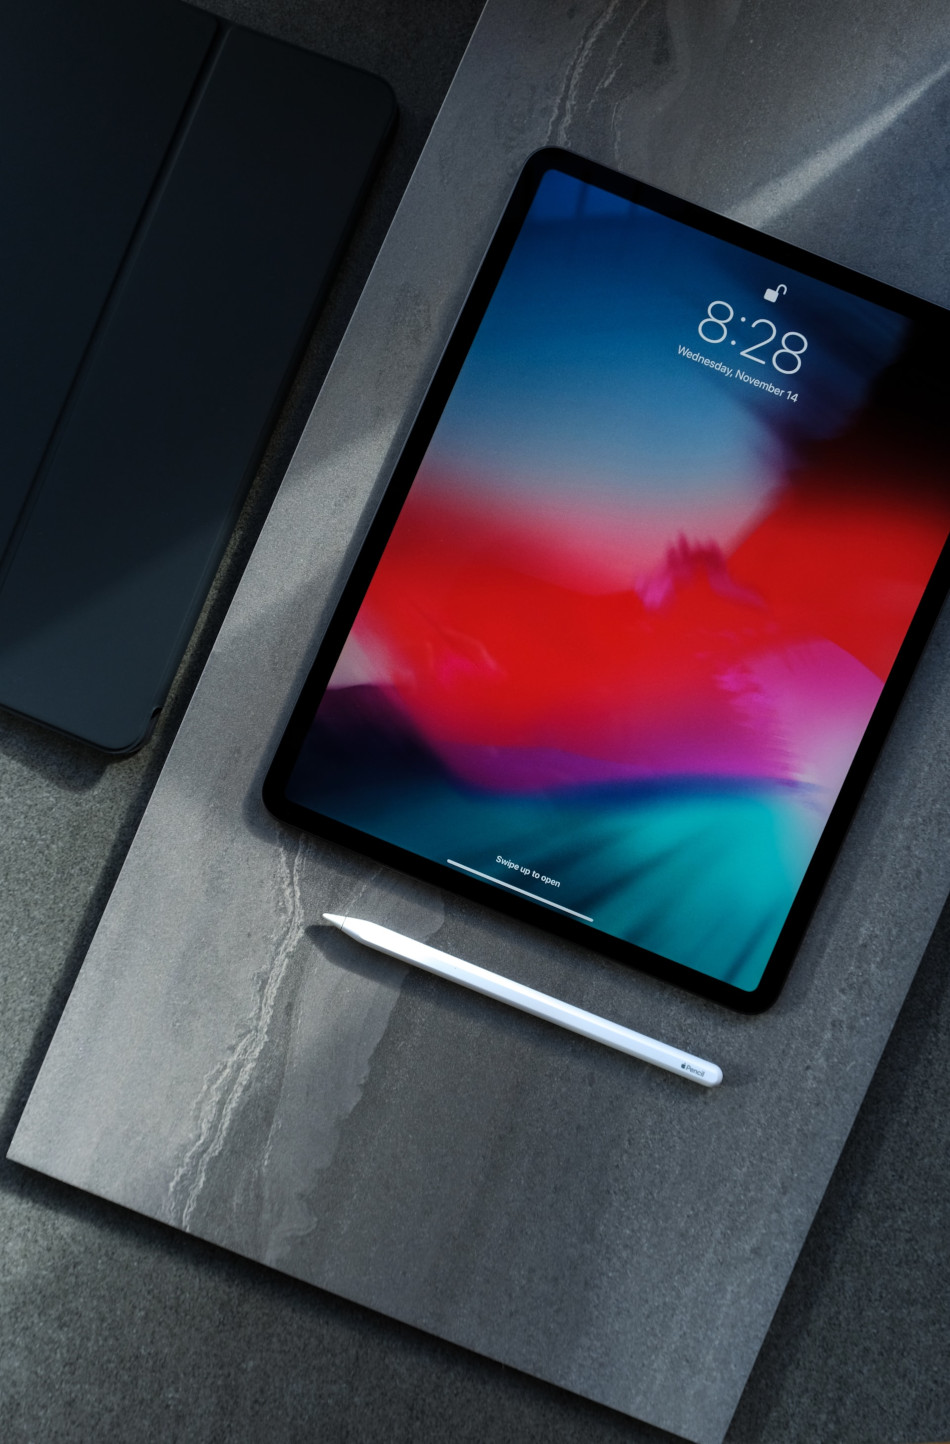
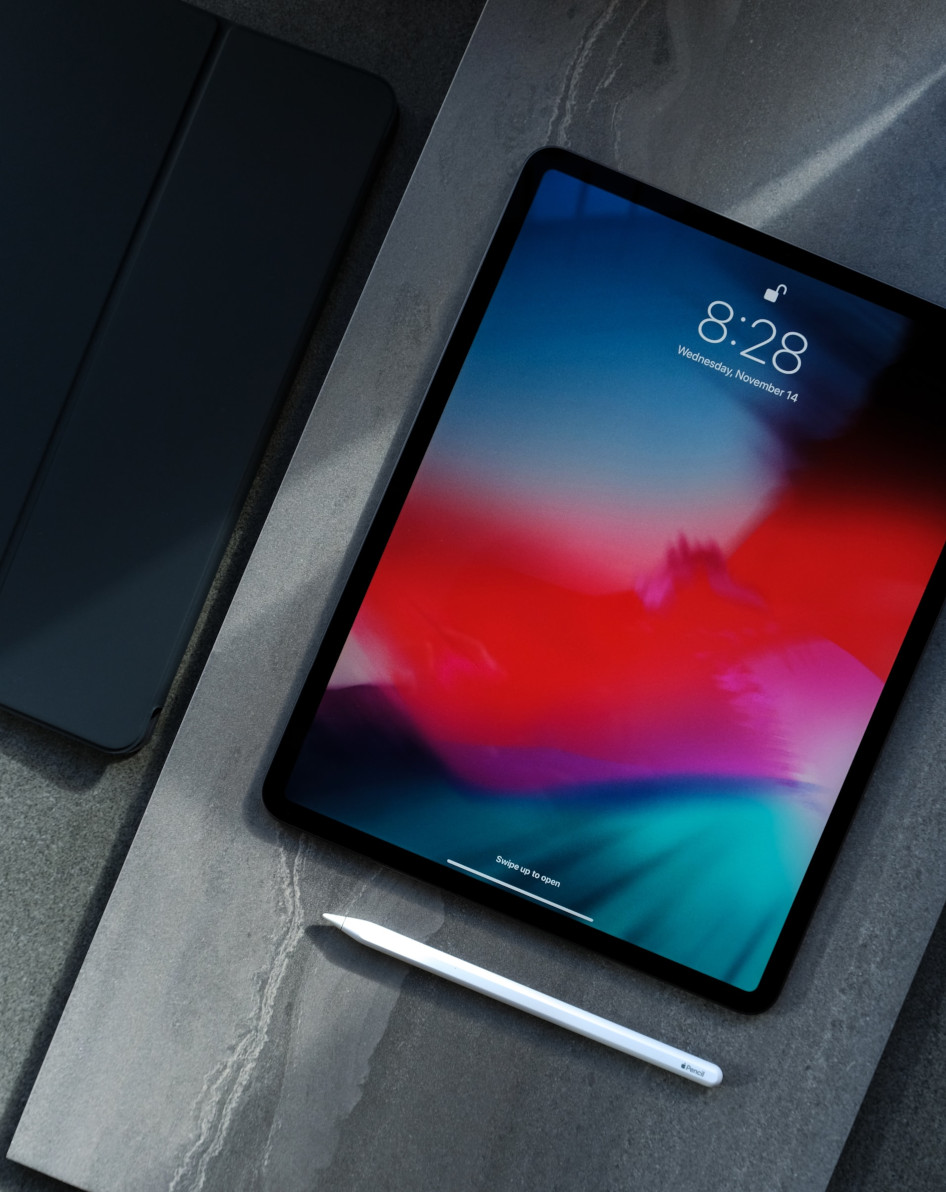
Testing bg-img and hover

diff --git a/css/style.css b/css/style.css
@@ -94,10 +94,20 @@ div#menu-container>nav>a {
     cursor: pointer;
 }
 
-div#menu-container>nav>a:hover {
-    background-color: var(--cor5);
-    color: var(--cor4);
-    border: 1px solid var(--cor2);
+@media (hover: hover) {
+    div#menu-container>nav>a:hover {
+        background-color: var(--cor5);
+        color: var(--cor4);
+        border: 1px solid var(--cor2);
+    }
+}
+
+@media (hover: none) {
+    div#menu-container>nav>a:active {
+        background-color: var(--cor5);
+        color: var(--cor4);
+        border: 1px solid var(--cor2);
+    }
 }
 
 /*
@@ -189,14 +199,28 @@ div.flex-items>a {
     box-shadow: 2px 2px 5px rgba(0, 0, 0, 0.623);
 }
 
-div.flex-items>a:hover {
-    background-color: var(--cor5);
-    color: var(--cor4);
-    text-shadow: 0px 0px 10px rgba(255, 255, 255, 0.5);
-    transform: translate(0px, -5px);
-    box-shadow: 5px 5px 10px rgba(0, 0, 0, 0.623);
-    transition: transform .2s, border 1s;
+@media (hover: hover) {
+    div.flex-items>a:hover {
+        background-color: var(--cor5);
+        color: var(--cor4);
+        text-shadow: 0px 0px 10px rgba(255, 255, 255, 0.5);
+        transform: translate(0px, -5px);
+        box-shadow: 5px 5px 10px rgba(0, 0, 0, 0.623);
+        transition: transform .2s, border 1s;
+    }
 }
+
+@media (hover: none) {
+    div.flex-items>a:active {
+        background-color: var(--cor5);
+        color: var(--cor4);
+        text-shadow: 0px 0px 10px rgba(255, 255, 255, 0.5);
+        transform: translate(0px, -5px);
+        box-shadow: 5px 5px 10px rgba(0, 0, 0, 0.623);
+        transition: transform .2s, border 1s;
+    }
+}
+
 
 div.item-1 {
     flex: 1 1 100%;
@@ -293,14 +317,29 @@ section#form-area #submit-button {
     box-shadow: 2px 2px 5px rgba(255, 255, 255, 0.500);
 }
 
-section#form-area #submit-button:hover {
-    background-color: var(--cor1);
-    color: var(--cor4);
-    transition: 0.3s;
-    transform: translate(0px, -5px);
-    box-shadow: 5px 5px 10px rgba(0, 0, 0, 0.623);
-    transition: transform .2s, border 1s;
+@media (hover: hover) {
+    section#form-area #submit-button:hover {
+        background-color: var(--cor1);
+        color: var(--cor4);
+        transition: 0.3s;
+        transform: translate(0px, -5px);
+        box-shadow: 5px 5px 10px rgba(0, 0, 0, 0.623);
+        transition: transform .2s, border 1s;
+    }
 }
+
+@media (hover: none) {
+    section#form-area #submit-button:active {
+        background-color: var(--cor1);
+        color: var(--cor4);
+        transition: 0.3s;
+        transform: translate(0px, -5px);
+        box-shadow: 5px 5px 10px rgba(0, 0, 0, 0.623);
+        transition: transform .2s, border 1s;
+    }
+}
+
+
 
 /*  ###########################
     #                         #
@@ -366,7 +405,7 @@ section#form-area #submit-button:hover {
     overflow: auto;
     color: var(--cor4);
     padding: 20px 0px;
-    
+
 }
 
 

diff --git a/css/media-queries.css b/css/media-queries.css
@@ -35,36 +35,59 @@
         font-size: 1.2rem;
         color: var(--cor4);
         background-color: var(--cor2);
-        border: 0px;
+        border-radius: 10px;
     }
 
-    header>div#menu-container>nav>a:hover {
-        color: var(--cor1);
-        background-color: var(--cor2);
-        border: 0px;
+    @media (hover: hover) {
+        header>div#menu-container>nav>a:hover {
+            color: var(--cor1);
+            background-color: var(--cor4);
+            border: 0px;
+            text-shadow: 0px 0px 10px rgba(255, 255, 255, 0.5);
+            transform: translate(0px, 5px);
+            box-shadow: 5px 5px 10px rgba(0, 0, 0, 0.623);
+            transition: transform .2s, border 1s;
+            border-radius: 10px;
+        }
     }
+
+    @media (hover: none) {
+        header>div#menu-container>nav>a:active {
+            color: var(--cor1);
+            background-color: var(--cor4);
+            border: 0px;
+            text-shadow: 0px 0px 10px rgba(255, 255, 255, 0.5);
+            transform: translate(0px, 5px);
+            box-shadow: 5px 5px 10px rgba(0, 0, 0, 0.623);
+            transition: transform .2s, border 1s;
+            border-radius: 10px;
+        }
+    }
+
 
     /* TABLET */
     section.flex-container {
         background-image: url(../img/bg-tablet.jpg);
-        background-position: bottom center;
+        background-position: center bottom;
         background-attachment: fixed;
         background-size: cover;
         background-repeat: no-repeat;
     }
 
     div.item-1 {
-        flex: 1 1 100%;
+        font-size: 1.25em;
+    }
+
+    div.item-1>p {
+        width: 500px;
     }
 
     div.item-2 {
-        flex: 1 1 50%;
-        background-color: var(--cor3);
+        font-size: 1.25em;
     }
 
     div.item-3 {
-        flex: 1 1 50%;
-        background-color: var(--cor2);
+        font-size: 1.25em;
     }
 
 

diff --git a/index.html b/index.html
@@ -13,7 +13,7 @@
 <body>
     <header>
         <div id="menu-container">
-            <h1 id="nome">v1.8</h1>
+            <h1 id="nome">v1.9</h1>
             <input type="checkbox" id="checkbox-burger" />
             <label class="burger-button" for="checkbox-burger">
                 <span></span>
@@ -67,7 +67,7 @@
                 <label for="remote-radio2" class="answer">Não</label>
                 <br>
                 <label for="type" class="question">Que tipo de atuação você necessita:</label>
-                <input type="text" name="entry.1385929678" id="type" list="typelist">
+                <input type="text" name="entry.1385929678" id="type" list="typelist" placeholder="Fron-end, Back-end, Full-stack, outros">
                 <datalist id="typelist">
                     <option>Front-End</option>
                     <option>Back-End</option>
